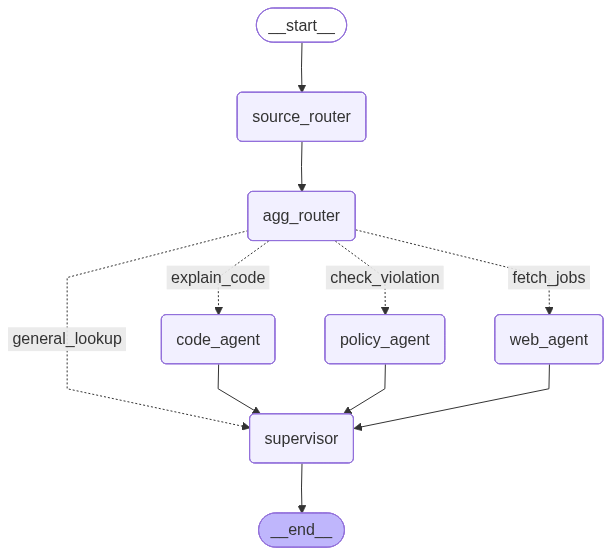
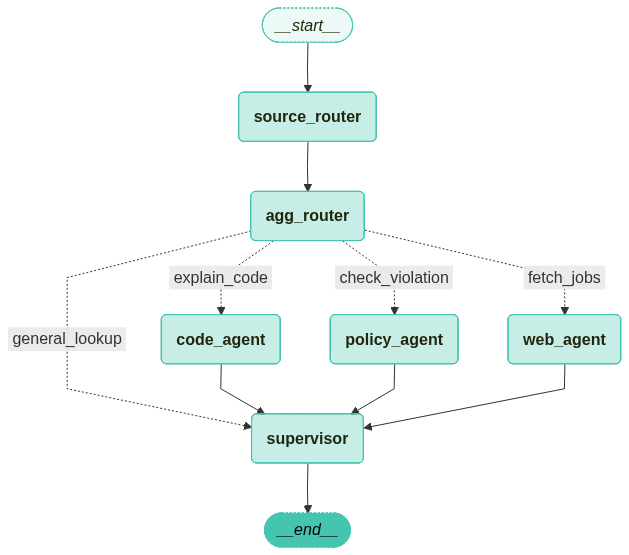
DONE: processing api result / NEXT: Handling multiple intent query

diff --git a/app/visualize.py b/app/visualize.py
@@ -1,0 +1,56 @@
+import random
+from dataclasses import dataclass
+from typing import Optional
+from langgraph.graph.state import CompiledStateGraph
+
+
+@dataclass
+class NodeStyles:
+    default: str = (
+        "fill:#45C4B0, fill-opacity:0.3, color:#23260F, stroke:#45C4B0, stroke-width:1px, font-weight:bold, line-height:1.2"
+    )
+    first: str = (
+        "fill:#45C4B0, fill-opacity:0.1, color:#23260F, stroke:#45C4B0, stroke-width:1px, font-weight:normal, font-style:italic, stroke-dasharray:2,2"
+    )
+    last: str = (
+        "fill:#45C4B0, fill-opacity:1, color:#000000, stroke:#45C4B0, stroke-width:1px, font-weight:normal, font-style:italic, stroke-dasharray:2,2"
+    )
+
+
+def _random_hex() -> str:
+    return f"{random.randint(0, 0xFFFFFF):06x}"
+
+
+def visualize_graph(
+    graph: CompiledStateGraph,
+    path: Optional[str] = "graph_output.png",
+    xray: bool = False,
+    ascii_fallback: bool = True,
+) -> Optional[str]:
+    """
+    CompiledStateGraph를 PNG로 시각화하고 파일 경로를 반환합니다.
+    PNG 생성에 실패하면 선택적으로 ASCII를 출력합니다.
+    """
+
+    if not isinstance(graph, CompiledStateGraph):
+        raise TypeError("visualize_graph expects a CompiledStateGraph.")
+
+    target_path = path or f"graph_output_{_random_hex()}.png"
+    g = graph.get_graph(xray=xray)
+
+    try:
+        png_bytes = g.draw_mermaid_png(
+            background_color="white",
+            node_colors=NodeStyles(),
+        )
+        with open(target_path, "wb") as f:
+            f.write(png_bytes)
+        return target_path
+    except Exception as e:
+        print(f"그래프 PNG 생성 실패: {e}")
+        if ascii_fallback:
+            try:
+                print(g.draw_ascii())
+            except Exception as ascii_error:
+                print(f"ASCII 표시도 실패: {ascii_error}")
+    return None

diff --git a/app/services/stocks.py b/app/services/stocks.py
@@ -1,8 +1,10 @@
 import os
 from serpapi import GoogleSearch
 
+
 class StockAPIError(Exception):
     pass
+
 
 def fetch_stocks(params: dict):
     api_key = os.environ.get("SERPAPI_KEY")
@@ -19,3 +21,38 @@ def fetch_stocks(params: dict):
 
     search = GoogleSearch(merged)
     return search.get_dict()
+
+
+def format_stock_result(data: dict) -> str:
+    summary = data.get("summary", {}) or {}
+    markets = data.get("markets", {}) or {}
+    us = markets.get("us", []) or []
+
+    lines = []
+    lines.append(f"TODAY: {summary.get('date', 'N/A')}")
+    lines.append("")
+
+    for item in us[:5]:
+        lines.append(f"NAME: {item.get('name', 'N/A')}")
+        lines.append(f"PRICE: ${item.get('price', 'N/A')}")
+        lines.append("")
+
+    lines.append("<<< 요청 종목 내용 >>>")
+    lines.append(f"TITLE: {summary.get('title', 'N/A')}")
+    lines.append(f"STOCK: {summary.get('stock', 'N/A')}")
+    lines.append(f"EXCHANGE: {summary.get('exchange', 'N/A')}")
+    lines.append(
+        f"PRICE: {summary.get('price', 'N/A')}  "
+        f"({summary.get('market', {}).get('trading', 'After Hours')}) -> "
+        f"{summary.get('market', {}).get('price', 'N/A')}"
+    )
+    lines.append(
+        "PERCENTAGE: "
+        f"{summary.get('price_movement', {}).get('percentage', 'N/A')} "
+        f"{summary.get('price_movement', {}).get('movement', 'N/A')} "
+        f"({summary.get('market', {}).get('trading', 'After Hours')}) -> "
+        f"{summary.get('market', {}).get('price_movement', {}).get('percentage', 'N/A')} "
+        f"{summary.get('market', {}).get('price_movement', {}).get('movement', 'N/A')}"
+    )
+
+    return "\n".join(lines)

diff --git a/main.py b/main.py
@@ -1,16 +1,25 @@
 from app.graph import build_app
 from app.state import AgentState
+from app.visualize import visualize_graph
 
 
 if __name__ == "__main__":
     try:
         app = build_app()
+        try:
+            png_path = visualize_graph(app, path="graph_output.png")
+            if png_path:
+                print(f"그래프가 저장되었습니다: {png_path}")
+        except Exception as viz_error:
+            print(f"그래프 시각화를 건너뜁니다: {viz_error}")
+        user_input = input("무엇을 도와드릴까요?")
 
-        init_state: AgentState = {"user_input": "오늘 테슬라 주가 확인해봐"}
+        init_state: AgentState = {"user_input": user_input}
         result = app.invoke(init_state)
         print(f"Final Intent: {result.get('final_intent')}")
         print(f"Web Data: {result.get('web_data')}")
         print(f"LLM Output: {result.get('llm_output')}")
+
 
     except FileNotFoundError as e:
         print(f"\n오류: {e}")

diff --git a/app/nodes/agents/web_agent.py b/app/nodes/agents/web_agent.py
@@ -1,19 +1,22 @@
+import json
 from typing import Callable, Dict
 from app.state import AgentState, extract_json
+from app.services.stocks import format_stock_result
 
 
 def make_stock_handler(run_llm: Callable, get_prompt: Callable, stock_client: Callable):
     def handle(state: AgentState) -> AgentState:
         system_prompt = get_prompt("stock_api")
         raw = run_llm(system_prompt, state["user_input"])
-        print(f"[RAW] : {raw}")
         params = extract_json(raw)
-        print(f"[params] : {params}")
+        print(f"[PARAMS] : {params}")
 
         try:
             api_result = stock_client(params)
-            print(f"[API_RESULT] : {api_result}")
-            return {"web_data": f"[Stock API] {params.get('q')}: {api_result}"}
+            formatted = format_stock_result(api_result)
+            
+            return {"web_data": formatted}
+        
         except Exception as e:
             return {"web_data": f"[Stock API] 호출 실패: {e}"}
 
